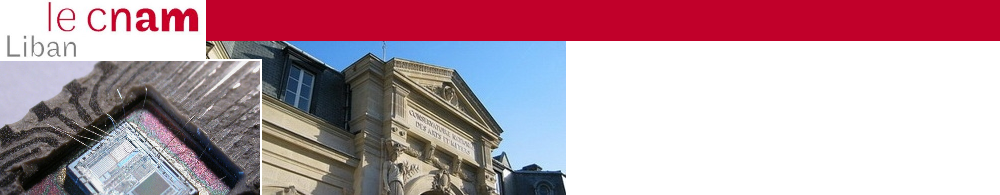
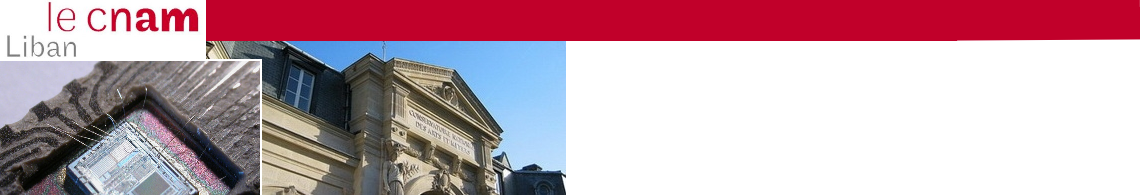
default.html , amélioration du css

diff --git a/_layouts/default.html b/_layouts/default.html
@@ -21,11 +21,11 @@
   <div id="container">
     <div id="header">
       <div id="header_toprow">
-        Conservatoire national des arts et métiers
+        Institut Supérieur des Sciences Appliquées et Économiques
       </div>
       <div id="header_title">
         NFP121 : Programmation avancée<br />
-        TP 1 - L'environnement de programmation BlueJ, git et github
+        Supports, exemples, exercices dirigés, Travaux pratiques et compléments
         <a href="{{ site.github.repository_url }}"><small>Voir les sources sur</small> GitHub</a>
       </div>
     </div>

diff --git a/assets/css/style.scss b/assets/css/style.scss
@@ -83,7 +83,7 @@ header h2 {
 
 #main-content {
   float: left;
-  width: 890px;
+  width: 918px;
 }
 
 body {
@@ -101,7 +101,7 @@ body {
 
 #header {
   height: 195px;
-  width: 1000px;
+  width: 1140px;
   background-image: url(../images/header.png);
 }
 
@@ -117,14 +117,14 @@ body {
 
 #header_title {
   float: right;
-  width: 434px;
-  height: 113px;
+  width: 574px;
+  height: 195px;
   color: #C1002A;
   font-family: Verdana, Arial;
   font-size: 22px;
   font-weight: bold;
   text-align: center;
-  padding: 40px 0 0 0;
+  padding: 35px 0px 5px 0px;
 }
 
 #content {
